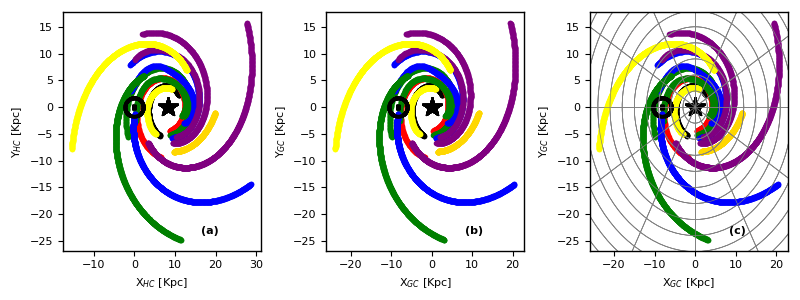
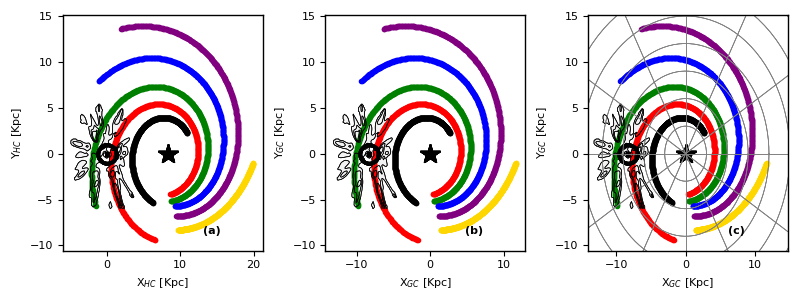
plots for the pdf

diff --git a/test.py b/test.py
@@ -171,21 +171,12 @@ if polar_test:
 mkJossfigs = True
 if mkJossfigs:
 
-	# 0  Taylor_Cordes_1992
-	# 1    Drimmel_NIR_2000
-	# 2         Levine_2006
-	# 3        Hou_Han_2014
-	# 4           Reid_2019
-	# 5         Poggio_2021
-	# 6   Drimmel_ceph_2024
-
-
 	print('plotting figures for primer')
 	xsun=-8.277
 	spirals = sp.main_(xsun=xsun)
 	use_model1 = 'Hou_Han_2014' 
-	use_model2 = 'Taylor_Cordes_1992' #'Poggio_2021'
-	use_model3 = 'Levine_2006'
+	use_model2 = 'Poggio_2021' #'Taylor_Cordes_1992' #'Poggio_2021'
+	use_model3 = 'Poggio_2021'
 	spirals.getinfo(model=use_model)
 
 
